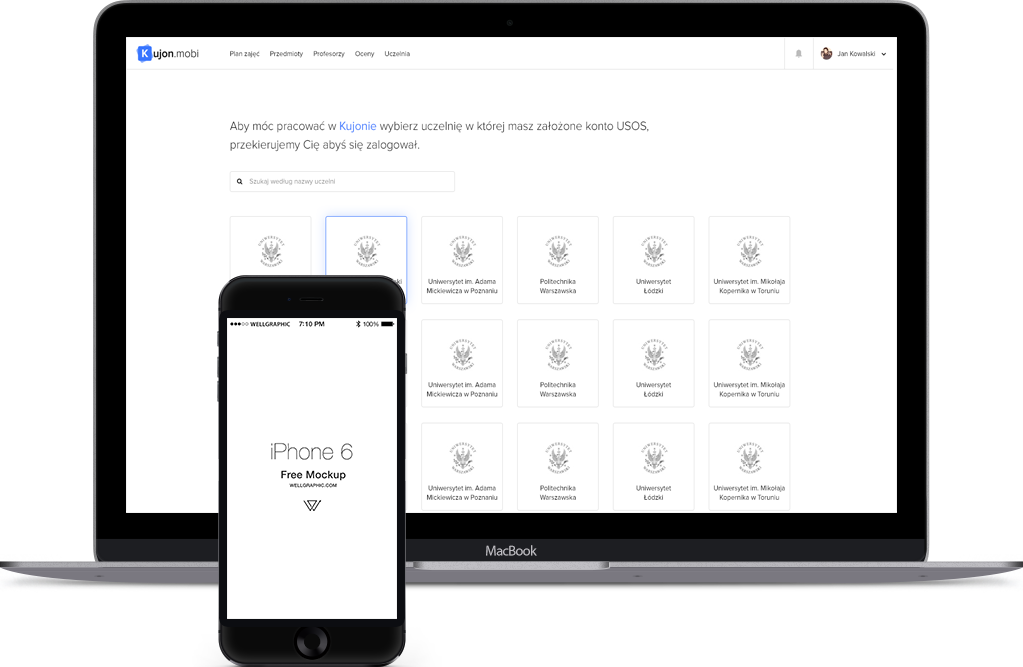
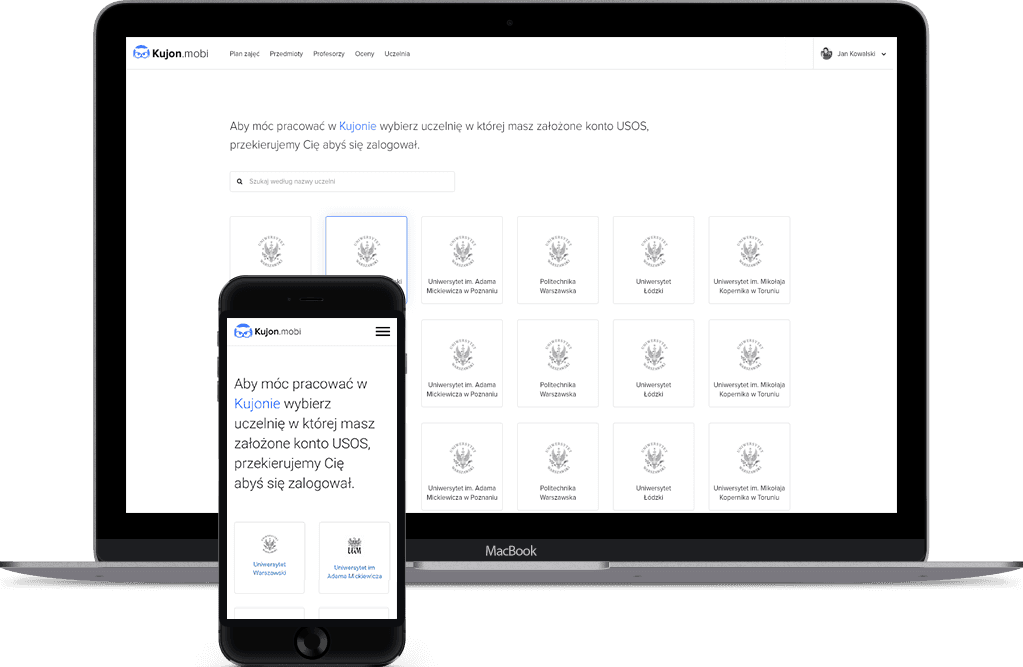
compressed images

diff --git a/web/static/css/style.css b/web/static/css/style.css
@@ -396,7 +396,7 @@ th.header{cursor:pointer;}
 @media (max-width: 1200px){header>.container>.row>.col-sm-10 {margin-top: 70px;max-height:604px;}#pomoc {padding-bottom: 50px;padding-top: 140px;}.landing-page>#demo{padding:70px 0 90px 0;}
 }
 @media (max-width: 1000px){header>.container>.row>.col-sm-10 {margin-top: 70px;max-height: 604px;}#pomoc {padding-bottom: 50px;padding-top: 125px;margin-bottom: 80px;}.landing-page footer .nav{margin-left:-15px;}}
-@media (max-width: 991px){header>.container>.row>.col-sm-10 {margin-top: 70px;max-height: 511px;}.landing-page>#demo{padding:0px 0 20px 0;}} 
+@media (max-width: 991px){header>.container>.row>.col-sm-10 {margin-top: 70px;max-height: 511px;}.landing-page>#demo{padding:0px 0 20px 0;}}
 @media (max-width:766px){header>.container>.row>.col-sm-10 {margin-top: 70px;max-height: 583px;}#pomoc {padding-bottom: 50px;padding-top: 125px;margin-bottom: 60px;}.landing-page>#demo{padding:0px 0 0px 0;}.landing-page footer .nav{margin-left:-10px;}}
 @media (max-width:700px){header>.container>.row>.col-sm-10 {margin-top: 70px;max-height:548px;}#pomoc {padding-bottom: 50px;padding-top: 125px;margin-bottom: 50px;}}
 @media (max-width:650px){header>.container>.row>.col-sm-10 {margin-top: 70px;max-height:522px;}#pomoc {padding-bottom: 50px;padding-top: 100px;margin-bottom: 40px;}}
@@ -406,7 +406,7 @@ th.header{cursor:pointer;}
 header>.container>.row>.col-sm-10 {margin-top: 70px;max-height: 685px;}
 #pomoc {padding-bottom: 50px;padding-top: 170px;}
  }
- 
+
 .intro-header {margin: 40px auto 30px auto;width: 100%;}
 .intro-header>h1 {width: 100%;color: white;font-size: 32px;line-height: 1.3;font-weight: 400;}
 .white {background: white;padding: 8px 40px;color: black;border: none;font-size: 16px;margin-top: 10px;transition: All 0.2s linear;-webkit-transition: All 0.2s linear;-moz-transition: All 0.2s linear;-o-transition: All 0.2s linear;}
@@ -444,10 +444,10 @@ header>.container>.row>.col-sm-10 {margin-top: 70px;max-height: 685px;}
 .logowanie-modal>.modal-dialog>.modal-content>.modal-body>.col-sm-12>.col-sm-2>span {font-size: 14px;}
 .hr-left {padding-left: 0;}
 .hr-right {padding-right: 0;}
-	
+
 /*media*/
 @media (min-width: 768px){
-header{background: url('../img/header.png') no-repeat;width:100%;background-size: cover;background-position-x: center;background-position-y: center;}
+header{background: url('../img/header.jpg') no-repeat;width:100%;background-size: cover;background-position-x: center;background-position-y: center;}
 /*.modal-header .close {margin-top: 18px;}*/
 .intro-header>h1>span {display: block;}
 .logowanie-modal>.modal-dialog {width: 350px;}
@@ -459,7 +459,7 @@ header{background: url('../img/header.png') no-repeat;width:100%;background-size
 .navbar-form {padding: 0px;}
 }
 
-@media (max-width:767px) { 
+@media (max-width:767px) {
 header{background: url('../img/header-mobile.jpg') no-repeat;width:100%;background-size: cover;background-position-x: center;background-position-y: center;}
 #wybor-uczelni>.container>.row>.col-sm-12>.form-group>input {padding: 2% 0 0 40px;    background: url(../img/search.png) no-repeat 3% 57%;}
 .navbar-landing.slide-active{position:fixed;}
@@ -524,18 +524,18 @@ body.slide-active {overflow-x: hidden;padding:0;}
 .navbar-nav>li>a {padding-top: 19px;padding-bottom: 20px;}
 #friends>.container>.row>.table-responsive>.bootstrap-table>.fixed-table-container>.fixed-table-body>table>tbody>.col-sm-6{padding:0;margin-top:30px;}
 }
-	
+
 
 .first-nav-pagination>a{border-top-left-radius: 4px;border-bottom-left-radius: 4px;}
 .last-nav-pagination>a{border-top-right-radius: 4px;border-bottom-right-radius: 4px;}
 tr.detail-view>td{padding:15px !important;}
 tr.detail-view>td>.col-sm-12{padding:15px;}
 
-	
-	
+
+
 /*errror*/
 .error{margin-top: 50px;min-height:auto;}
-	
+
 @media (min-width: 1000px) {
 .navbar {
     border-radius: 4px;
@@ -572,7 +572,7 @@ tr.detail-view>td>.col-sm-12{padding:15px;}
 @media (max-width: 999px) {
 	.logowanie-modal>.modal-dialog>.modal-content>.modal-header>.col-sm-12>button {
     margin-top: 0px;
-	
+
 }
 
 .navbar-landing>.container>.navbar-header>button>span{background:white;}
@@ -849,7 +849,7 @@ table>tbody>tr>td:last-child, table>tbody>tr>th:last-child, table>tfoot>tr>td:la
 }
 .dataTables_paginate>.paginate_button.previous{border-radius:4px;margin-right:15px;    padding: 6px 14px;}
 .dataTables_paginate>.paginate_button.next{border-radius:4px;margin-left:15px;    padding: 6px 14px;}
- 
+
 .dataTables_wrapper>div>div>table>thead>tr>th, table>thead>tr>th {
 	  cursor: pointer;
     background-position: 98%;
@@ -938,7 +938,7 @@ border-radius: 4px;}
 }
 }
 @media (max-width: 1000px){
-	
+
 #grades .dataTables_wrapper .dataTables_filter {
      position: relative;
 	float:left;margin-left: -5px;
@@ -965,7 +965,7 @@ float:left;margin-left: -5px;}
 	.heading {
     margin-bottom: 20px;
 }
-	
+
 }
 #faculties td:nth-child(2){text-align:center;}
 #faculties td:nth-child(2)>img{max-width:80px;}
@@ -990,12 +990,12 @@ float:left;margin-left: -5px;}
     border-left:0;
 }
 td.details-control:before {
-	 font-family: 'Glyphicons Halflings'; 
+	 font-family: 'Glyphicons Halflings';
 	content:"\e259";
     cursor: pointer;
 }
 tr.shown td.details-control:before {
-	 font-family: 'Glyphicons Halflings'; 
+	 font-family: 'Glyphicons Halflings';
 	content:"\e260";
 }
 table.dataTable tbody td.no-padding {
@@ -1024,7 +1024,7 @@ padding: 0;}
 .slider tr>td{border:none;}
 .slider tr{border:none;}
 table.dataTable.row-border tbody th, table.dataTable.row-border tbody td, table.dataTable.display tbody th, table.dataTable.display tbody td {
-     border-top: 1px solid #ddd; 
+     border-top: 1px solid #ddd;
 }
 .slider{    padding: 5px 30px;}
 .slider>table>tbody>tr>td{border:none;border-top:none !important;text-align:left;}
